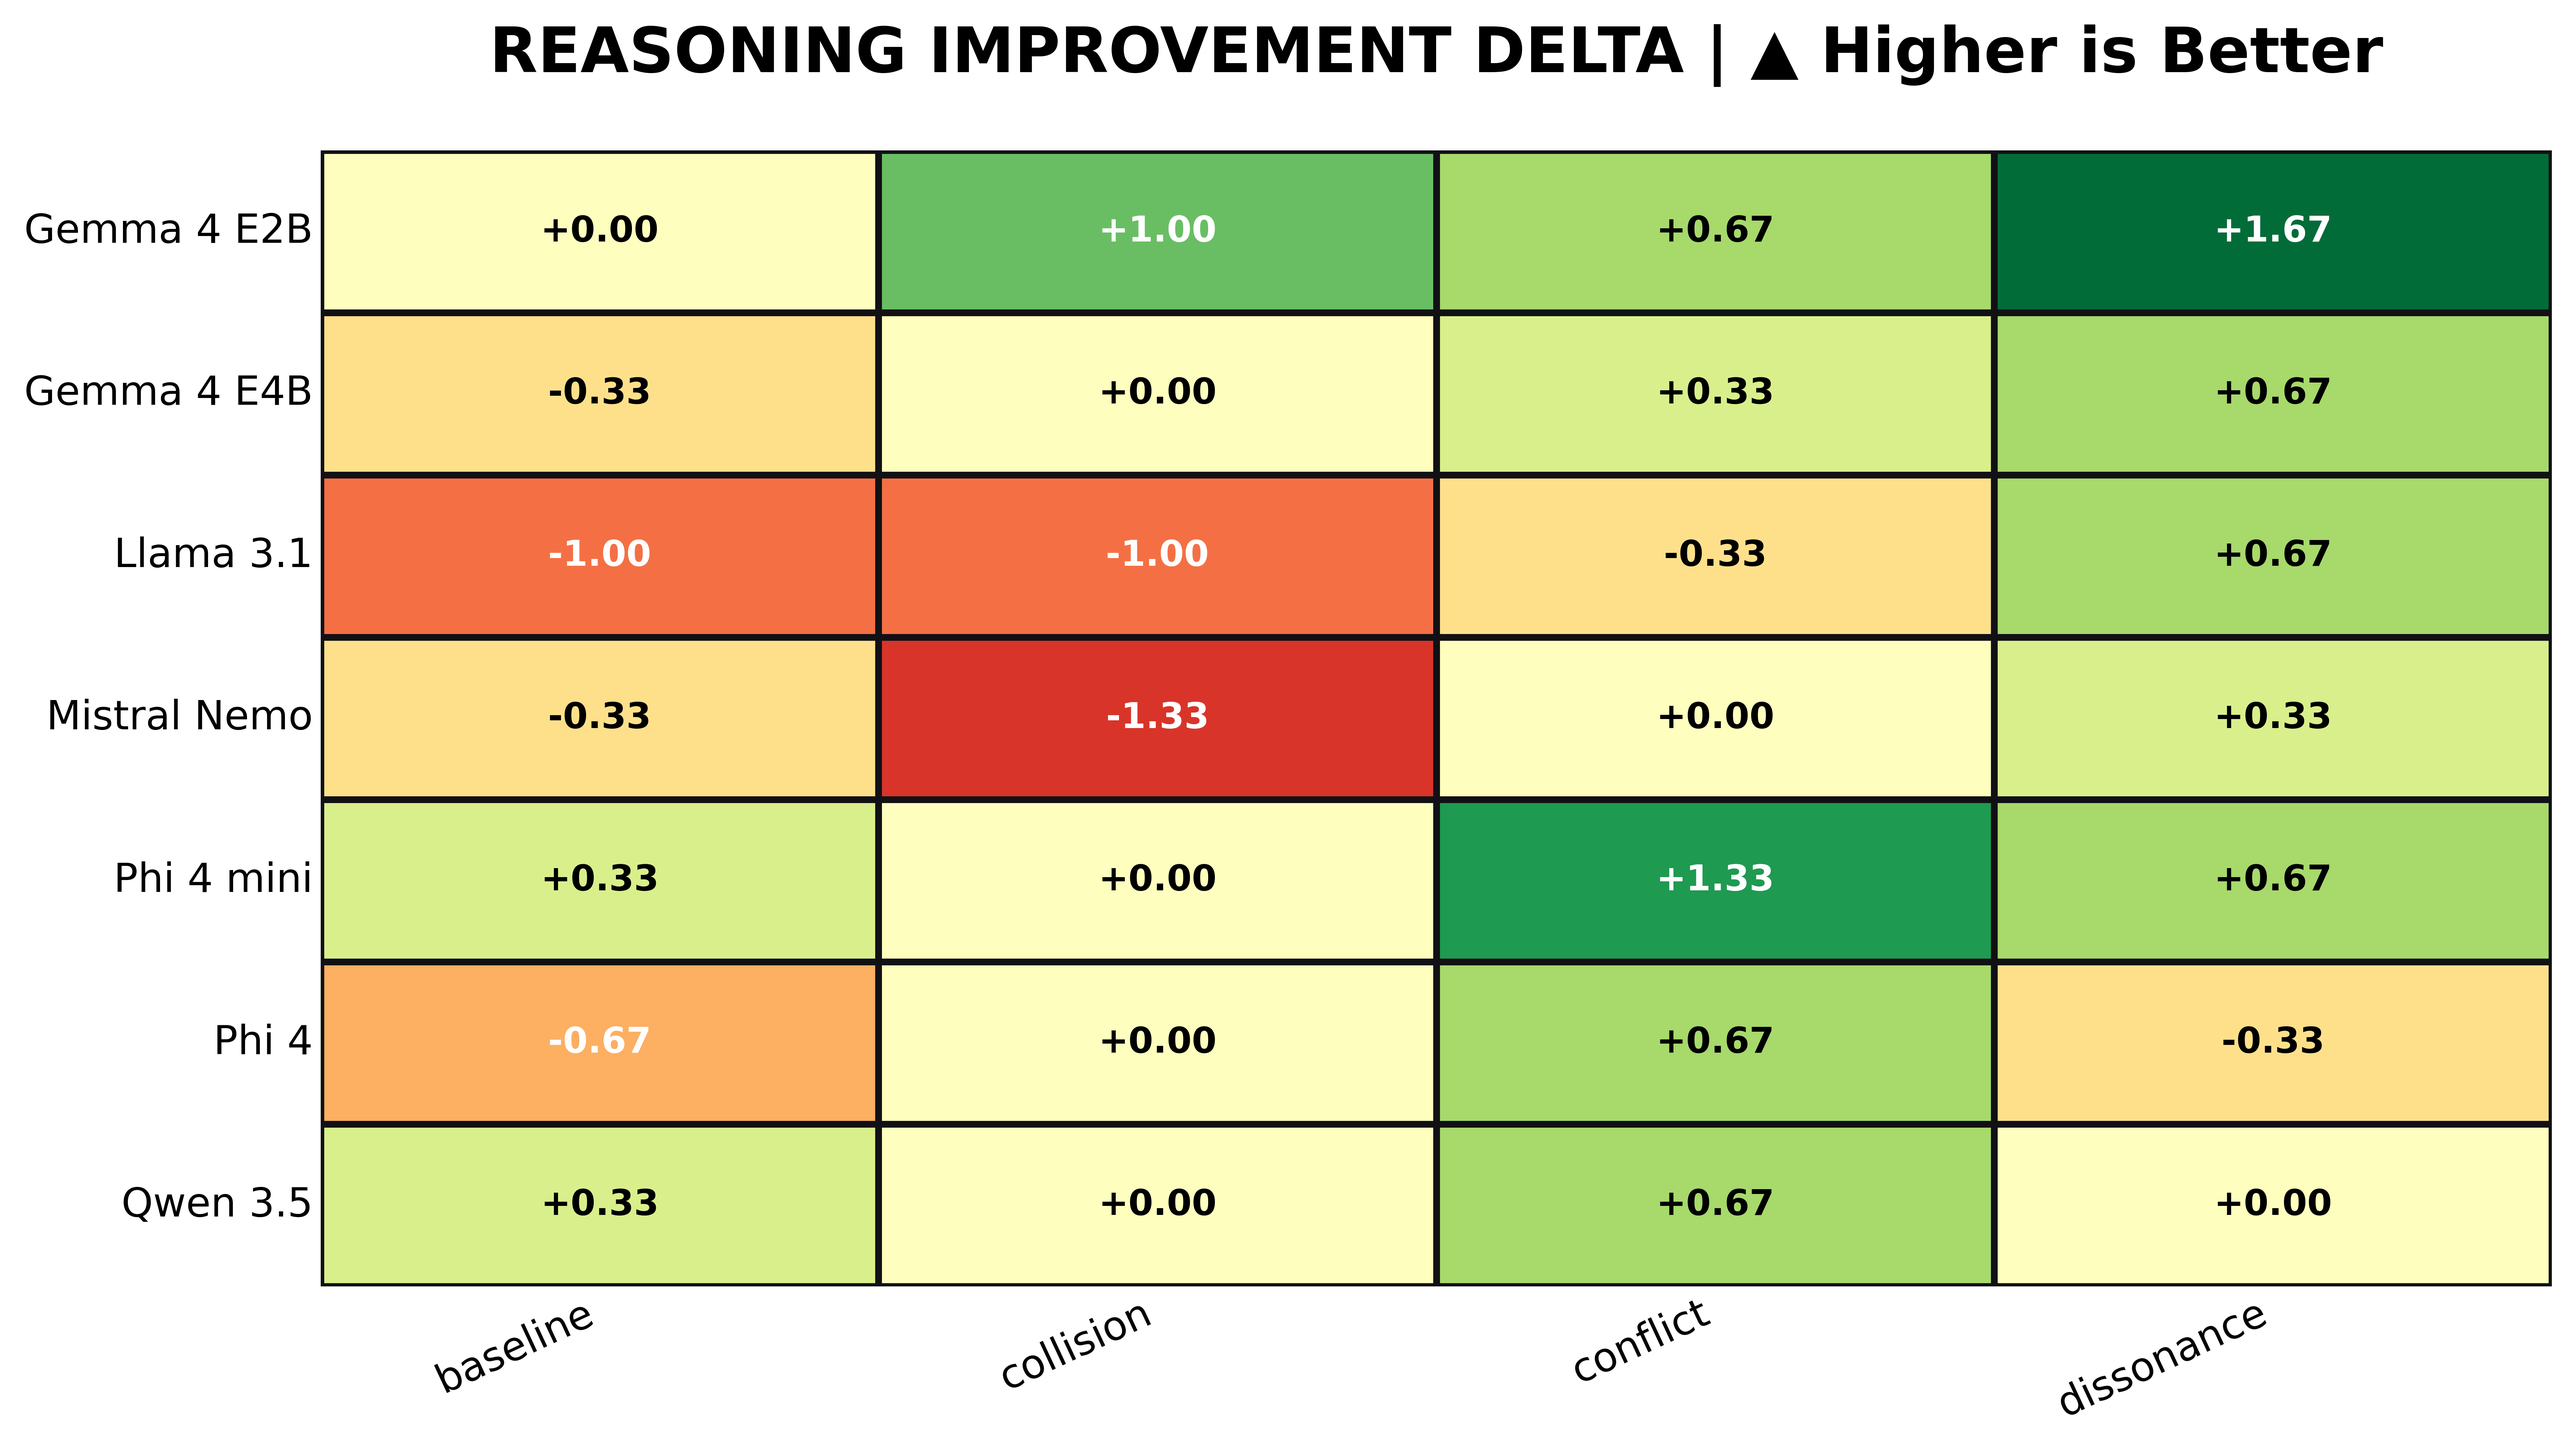
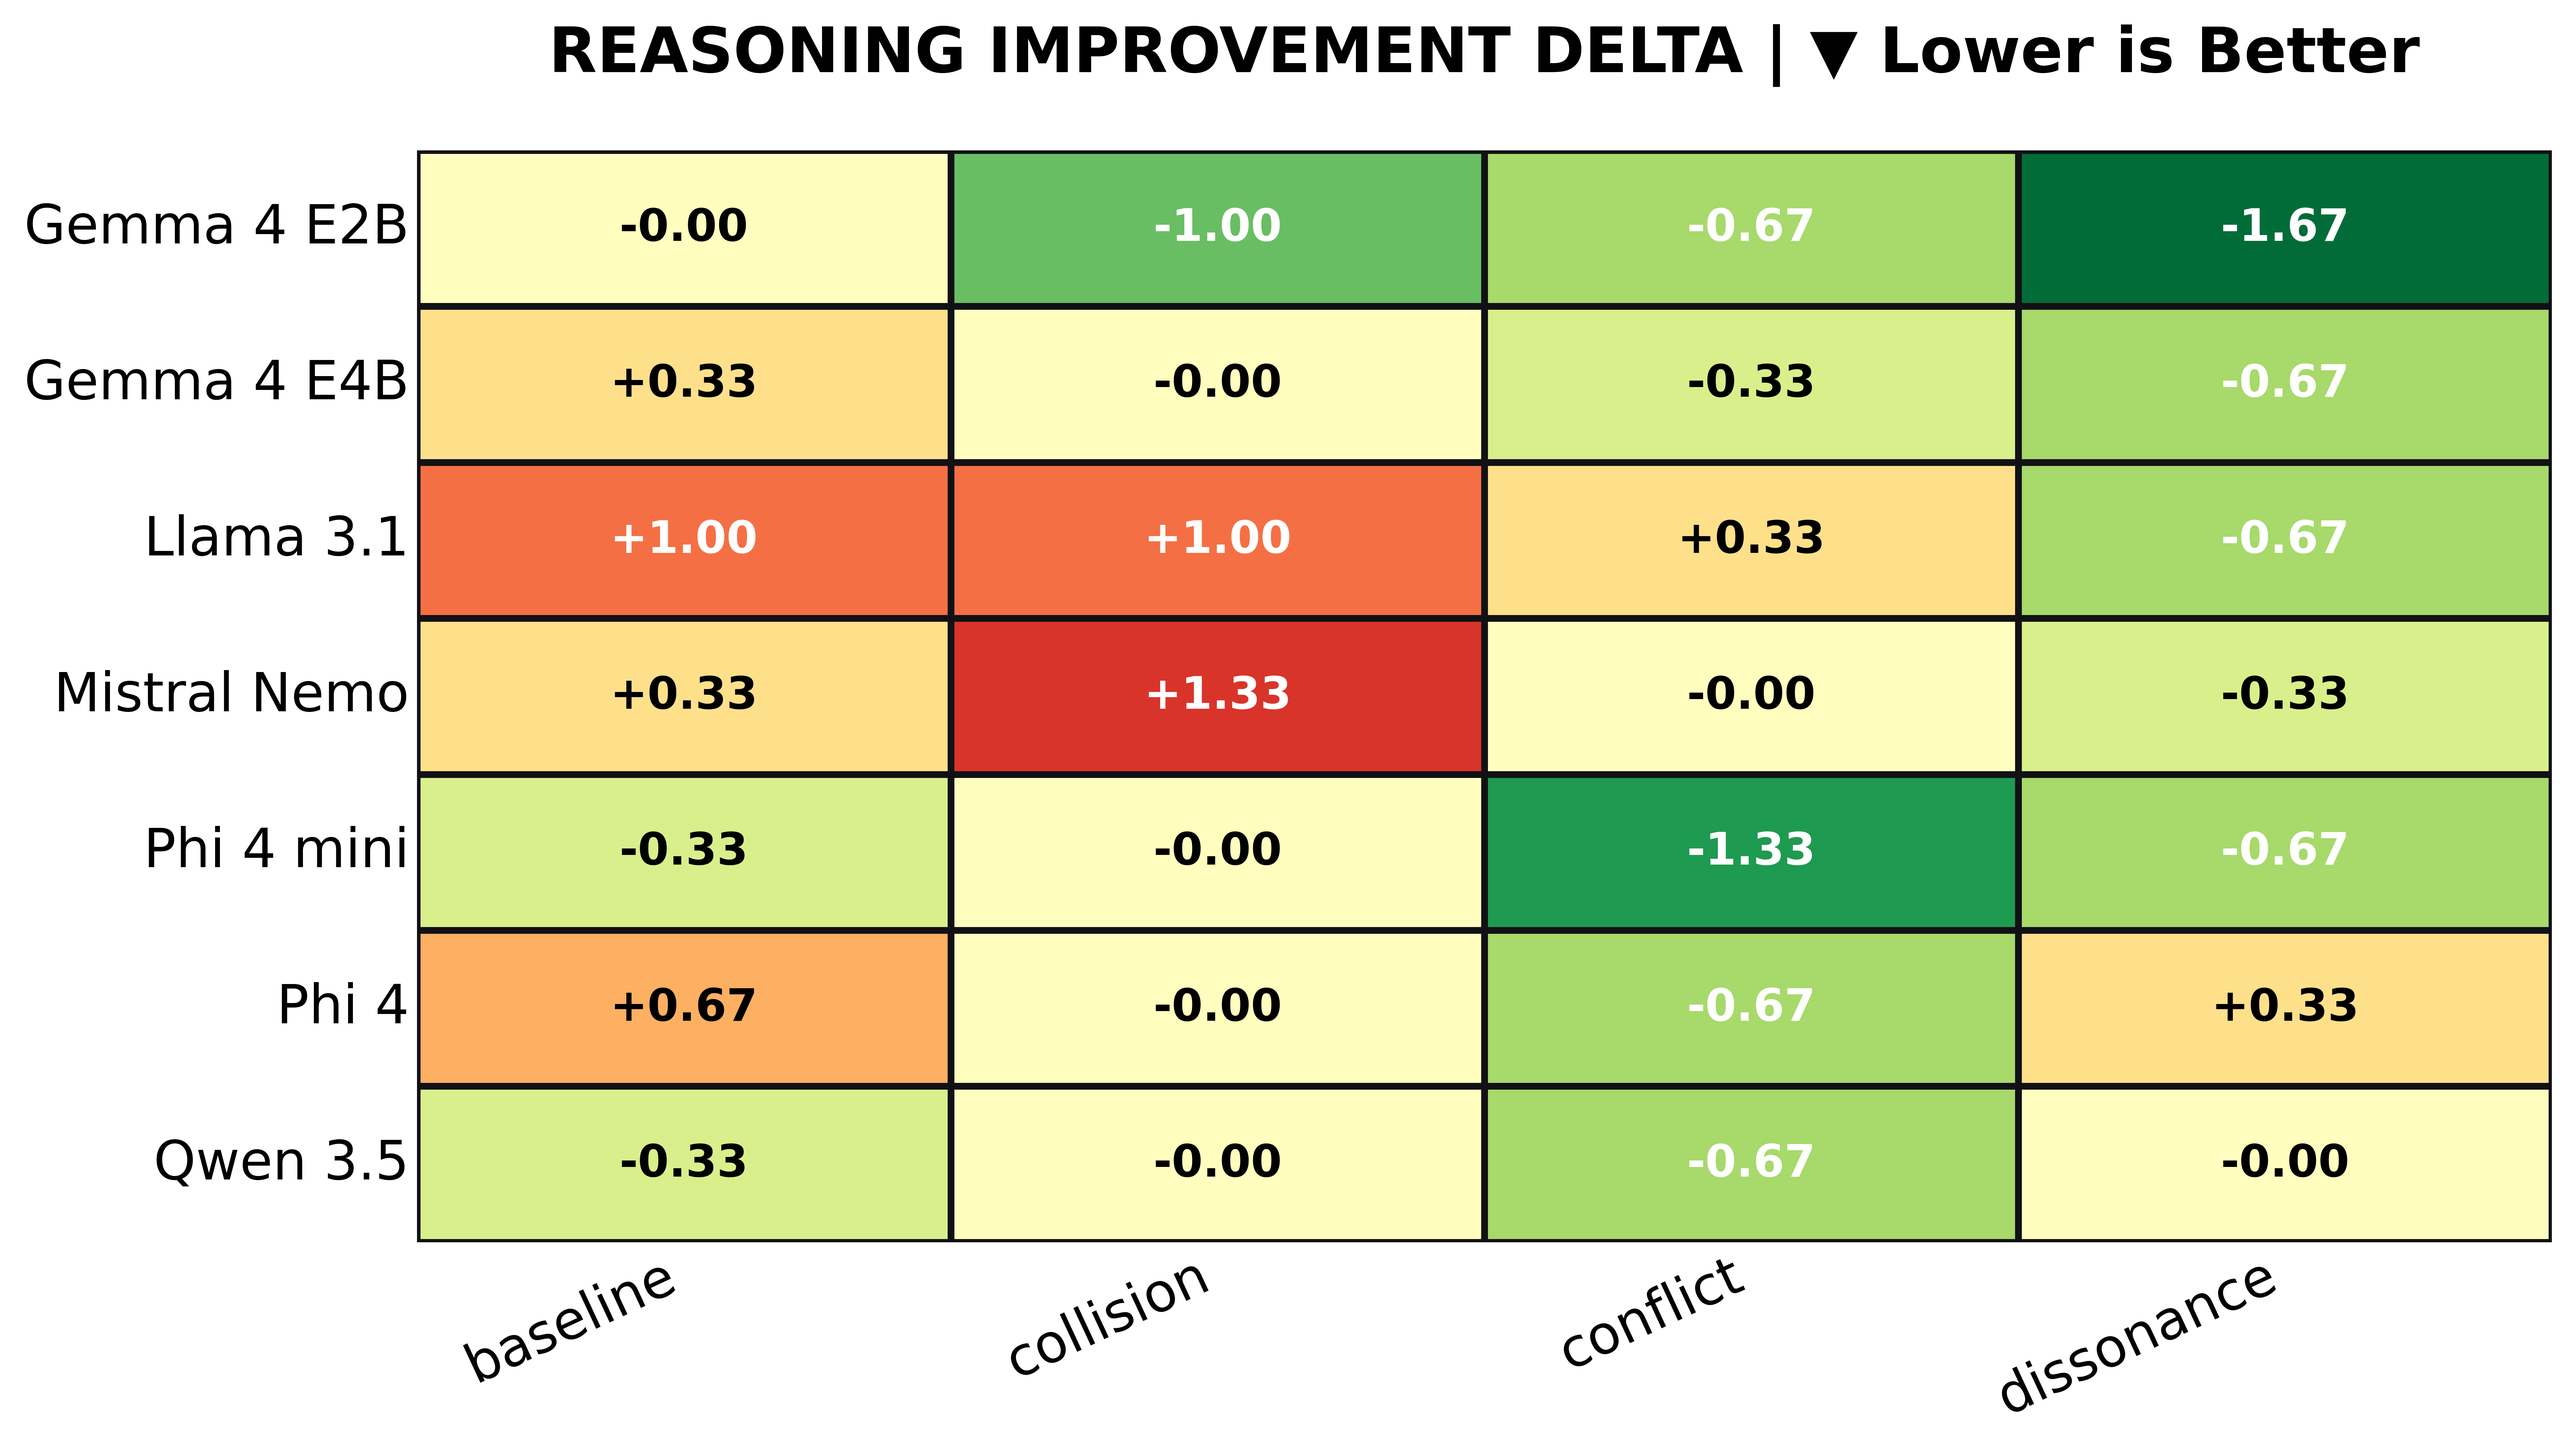
sync

diff --git a/viz/testing.py b/viz/testing.py
@@ -28,11 +28,11 @@ MARTIN_ATTACK_ORDER = [
 ]
 
 TITLE_FONT_SIZE = 28
-AXIS_TICK_FONT_SIZE = 18
-MATRIX_CELL_FONT_SIZE = 16
-BAR_DATA_LABEL_FONT_SIZE = 14
-AXIS_LABEL_FONT_SIZE = 18
-LEGEND_FONT_SIZE = 16
+AXIS_TICK_FONT_SIZE = 24
+MATRIX_CELL_FONT_SIZE = 20
+BAR_DATA_LABEL_FONT_SIZE = 20
+AXIS_LABEL_FONT_SIZE = 24
+LEGEND_FONT_SIZE = 24
 DPI = 500
 
 IMG_DIR = "report"
@@ -120,7 +120,7 @@ def draw_heatmap(data_matrix, title, save_filename, mode="continuous",
         numeric_matrix = data_matrix.replace(status_map).fillna(0).astype(float)
 
         # 1. Map the cell abbreviations to full words for display labels
-        display_map = {'ERROR': 'ERROR', 'F': 'FAILED', 'GE': 'GOOD ENOUGH', 'EX': 'IDEAL'}
+        display_map = {'ERROR': 'ERROR', 'F': 'FAILED', 'GE': 'PASS', 'EX': 'IDEAL'}
         annot_matrix = data_matrix.replace(display_map)
 
         # 2. Draw the heatmap with full text annotations and no sidebar
@@ -141,7 +141,7 @@ def draw_heatmap(data_matrix, title, save_filename, mode="continuous",
             t = text_el.get_text()
             if t == 'ERROR':
                 text_el.set_color('#ff4d6d')  # Pink-red highlight for crashes
-            elif t == 'GOOD ENOUGH':
+            elif t == 'PASS':
                 text_el.set_color('black')  # Crisp black text for yellow boxes
             else:
                 text_el.set_color('white')  # Clean white text for Green and Red boxes
@@ -486,7 +486,7 @@ def plot_jakub_grades(raw_df, reasoning_mode='no_reasoning', title=None, filenam
                  float_fmt="{:.2f}")
 
 
-def plot_jakub_delta(raw_df, title="REASONING IMPROVEMENT DELTA | ▲ Higher is Better", filename="j_delta.png"):
+def plot_jakub_delta(raw_df, title="REASONING IMPROVEMENT DELTA | ▼ Lower is Better", filename="j_delta.png"):
     df, model_col = _clean_jakub_df(raw_df)
 
     df_no = df[df['Reasoning_Mode'] == 'no_reasoning'].pivot_table(index=model_col, columns='Test_Type', values='Grade',
@@ -494,8 +494,9 @@ def plot_jakub_delta(raw_df, title="REASONING IMPROVEMENT DELTA | ▲ Higher is 
     df_with = df[df['Reasoning_Mode'] == 'with_reasoning'].pivot_table(index=model_col, columns='Test_Type',
                                                                        values='Grade', aggfunc='mean')
 
-    df_imp = (df_no - df_with).reindex(index=MODELS_ORDER)
-    draw_heatmap(df_imp, title, filename, mode="continuous", reverse_cmap=False, vmin=-1.7, vmax=1.7,
+    df_imp = -(df_no - df_with).reindex(index=MODELS_ORDER)
+
+    draw_heatmap(df_imp, title, filename, mode="continuous", reverse_cmap=True, vmin=-1.7, vmax=1.7,
                  float_fmt="{:+.2f}")
 
 
@@ -638,8 +639,10 @@ if __name__ == "__main__":
                     current_model, current_character, current_category = None, None, None
 
         df_parsed = pd.DataFrame(data)
+
         # Apply the fuzzy string matcher to Martin's raw model names!
         df_parsed = _clean_model_names(df_parsed, "Model")
+        print(df_parsed)
         return df_parsed
 
 
